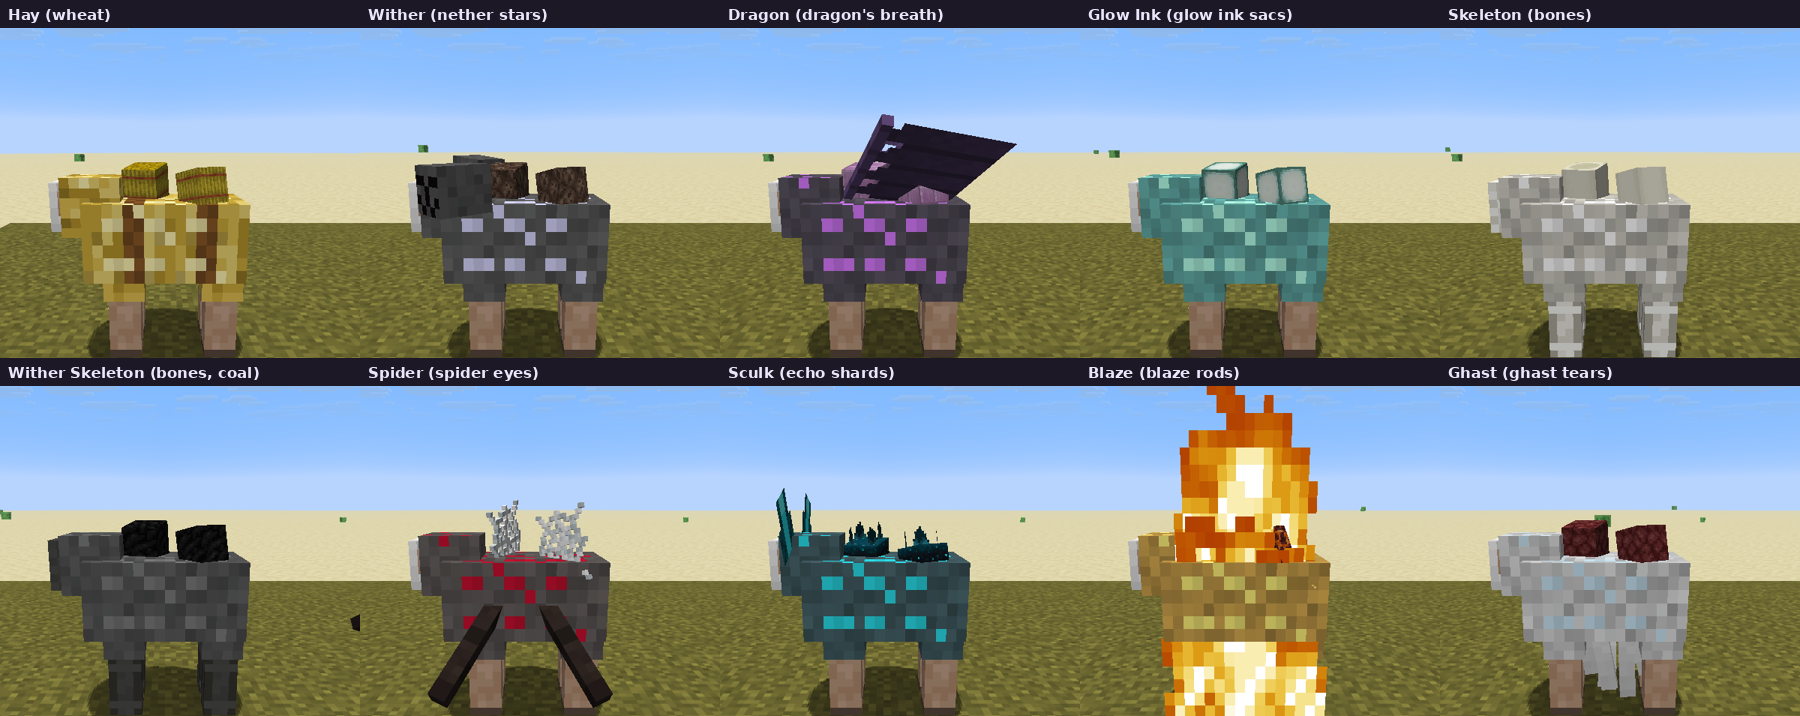
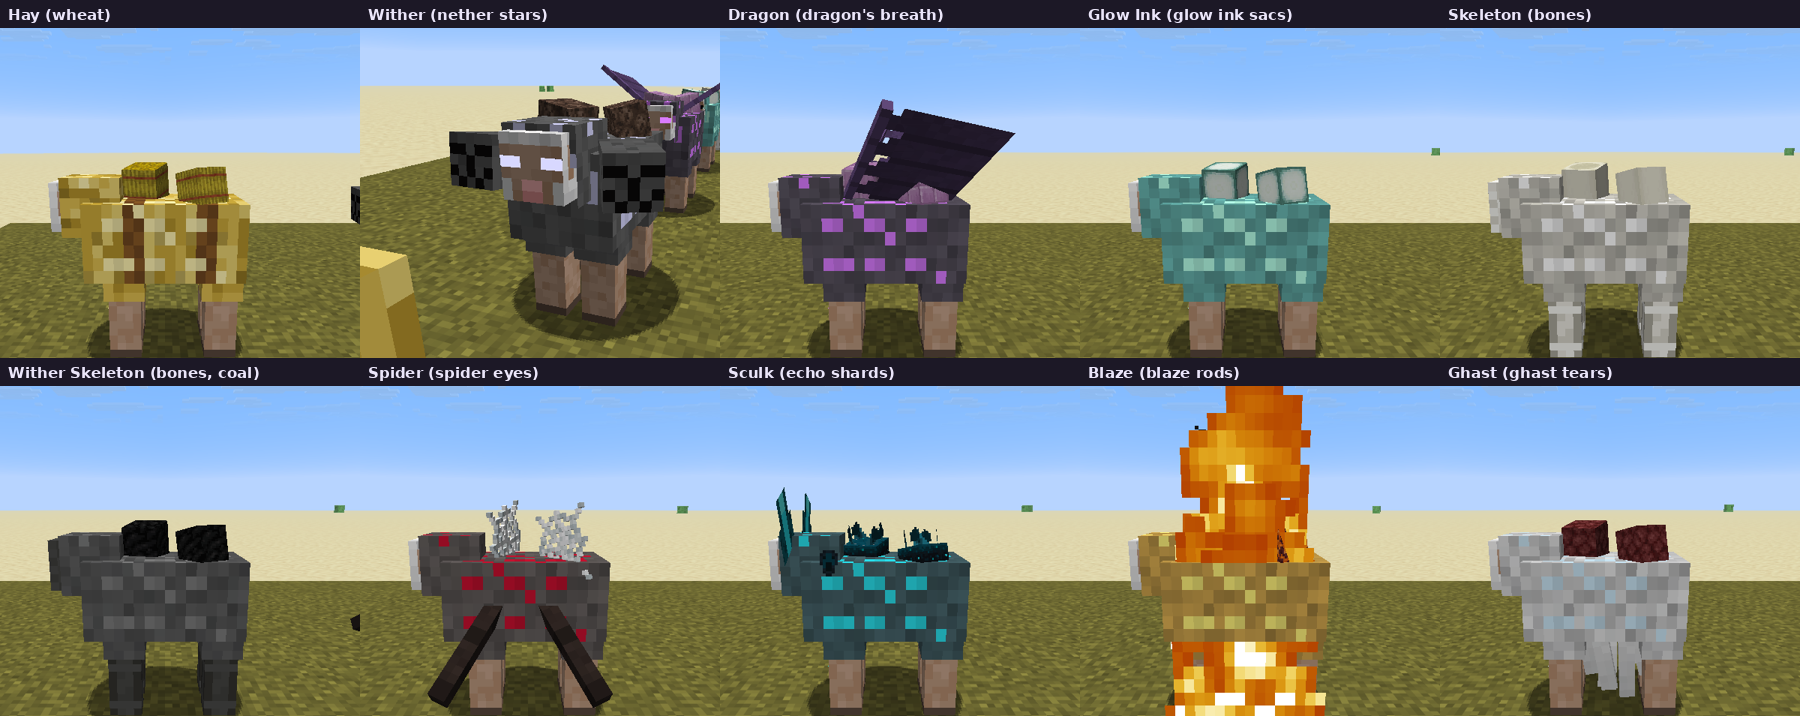
Put the Wither sheep's extra heads beside its own head
The two skull heads now sit either side of the sheep's head instead of
on its shoulders, and are attached to it so they move with it while it
grazes. Adds a front-on screenshot of the Wither sheep.

Claude-Session: https://claude.ai/code/session_012iurxobutw9xMP3SqHHLFE

diff --git a/src/main/java/com/jax3/barelyfunctionalcontraptions/sheep/client/SheepExtrasModel.java b/src/main/java/com/jax3/barelyfunctionalcontraptions/sheep/client/SheepExtrasModel.java
@@ -60,8 +60,8 @@ public class SheepExtrasModel extends EntityModel<SheepRenderState> {
         this.eyes = head.getChild("eyes");
         this.leftTendril = head.getChild("left_tendril");
         this.rightTendril = head.getChild("right_tendril");
-        this.leftHead = root.getChild("left_head");
-        this.rightHead = root.getChild("right_head");
+        this.leftHead = head.getChild("left_head");
+        this.rightHead = head.getChild("right_head");
         this.leftWing = root.getChild("left_wing");
         this.rightWing = root.getChild("right_wing");
         for (int i = 0; i < SPIDER_LEGS.length; i++) {
@@ -94,10 +94,11 @@ public class SheepExtrasModel extends EntityModel<SheepRenderState> {
         head.addOrReplaceChild("right_tendril", CubeListBuilder.create().texOffs(40, 0).mirror().addBox(-6.0F, -7.0F, 0.0F, 6.0F, 7.0F, 0.0F),
                 PartPose.offsetAndRotation(-2.0F, -4.0F, -3.0F, 0.0F, 0.0F, -0.35F));
 
-        // Wither side heads on the shoulders, a little smaller than the real one.
+        // Wither side heads either side of the real head (a little smaller), attached to it so they graze with it.
+        // The real head spans x -3..3 (-3.6..3.6 with its fleece), y -4..2 and z -6..2 in head space.
         CubeListBuilder sideHead = CubeListBuilder.create().texOffs(0, 0).addBox(-2.5F, -2.5F, -6.0F, 5.0F, 5.0F, 6.0F);
-        root.addOrReplaceChild("left_head", sideHead, PartPose.offset(7.5F, 2.0F, -5.0F));
-        root.addOrReplaceChild("right_head", sideHead, PartPose.offset(-7.5F, 2.0F, -5.0F));
+        head.addOrReplaceChild("left_head", sideHead, PartPose.offset(6.2F, -0.5F, 0.5F));
+        head.addOrReplaceChild("right_head", sideHead, PartPose.offset(-6.2F, -0.5F, 0.5F));
 
         // Dragon wings: a bone along the leading edge with a membrane hanging behind it, hinged on the top of the back.
         PartDefinition leftWing = root.addOrReplaceChild("left_wing",
@@ -152,11 +153,11 @@ public class SheepExtrasModel extends EntityModel<SheepRenderState> {
         boolean heads = parts && appearance.has(Feature.EXTRA_HEADS);
         leftHead.visible = heads;
         rightHead.visible = heads;
-        // The side heads face outwards and look about on their own, like the Wither's.
-        leftHead.yRot = -0.55F + Mth.sin(t * 0.05F) * 0.3F;
-        leftHead.xRot = Mth.sin(t * 0.07F + 1.0F) * 0.15F;
-        rightHead.yRot = 0.55F + Mth.sin(t * 0.045F + 2.0F) * 0.3F;
-        rightHead.xRot = Mth.sin(t * 0.06F + 3.0F) * 0.15F;
+        // The side heads turn slightly outwards and look about a little on their own, like the Wither's.
+        leftHead.yRot = -0.25F + Mth.sin(t * 0.05F) * 0.2F;
+        leftHead.xRot = Mth.sin(t * 0.07F + 1.0F) * 0.12F;
+        rightHead.yRot = 0.25F + Mth.sin(t * 0.045F + 2.0F) * 0.2F;
+        rightHead.xRot = Mth.sin(t * 0.06F + 3.0F) * 0.12F;
 
         boolean wings = parts && appearance.has(Feature.WINGS);
         leftWing.visible = wings;

diff --git a/src/main/java/com/jax3/barelyfunctionalcontraptions/sheep/client/DevScreenshotHarness.java b/src/main/java/com/jax3/barelyfunctionalcontraptions/sheep/client/DevScreenshotHarness.java
@@ -1118,11 +1118,11 @@ public final class DevScreenshotHarness {
 
     private static void themedSheepTick(Minecraft mc, MinecraftServer server) {
         // 60: stage; 120: overview; then one close-up per sheep every 25 ticks; then the overview again at night.
-        int closeStart = 130, perSheep = 25, night = closeStart + THEMED.length * perSheep;
+        int closeStart = 130, perSheep = 25, night = closeStart + THEMED.length * perSheep + 35;
         if (tick == 60) server.execute(() -> themedSheepScene(server));
         else if (tick == 70) setHudHidden(mc, true);
         else if (tick == 120) shot(mc, "52_themed_sheep");
-        else if (tick >= closeStart && tick < night) {
+        else if (tick >= closeStart && tick < closeStart + THEMED.length * perSheep) {
             int i = (tick - closeStart) / perSheep, step = (tick - closeStart) % perSheep;
             if (step == 0) {
                 // Slightly in front of the sheep's left side, looking back at it.
@@ -1130,6 +1130,11 @@ public final class DevScreenshotHarness {
             } else if (step == perSheep - 1) {
                 shot(mc, "53_themed_" + THEMED[i]);
             }
+        } else if (tick == night - 30) {
+            // The Wither sheep from the front, to show the three heads side by side.
+            command(server, String.format(java.util.Locale.ROOT, "tp @a %.2f %d %.2f 250 18", themedX(1) - 2.6, origin.getY(), origin.getZ() - 5 + 1.6));
+        } else if (tick == night - 2) {
+            shot(mc, "53_themed_wither_front");
         } else if (tick == night) {
             command(server, "time set midnight");
             command(server, String.format(java.util.Locale.ROOT, "tp @a %.1f %d %.1f 180 18", origin.getX() + 0.5, origin.getY() + 2, origin.getZ() + 5.5));

diff --git a/src/main/java/com/jax3/barelyfunctionalcontraptions/sheep/resource/SheepAppearance.java b/src/main/java/com/jax3/barelyfunctionalcontraptions/sheep/resource/SheepAppearance.java
@@ -47,7 +47,7 @@ public record SheepAppearance(Optional<Identifier> woolTexture, List<Feature> fe
      * none of them.
      */
     public enum Feature implements StringRepresentable {
-        /** Two smaller heads on the shoulders, like the Wither. */
+        /** Two smaller heads either side of its own head, like the Wither. */
         EXTRA_HEADS,
         /** A pair of flapping dragon wings on its back. */
         WINGS,

diff --git a/TESTING.md b/TESTING.md
@@ -18,7 +18,7 @@ Environment for the results below: Minecraft 26.3, NeoForge 26.3.0.101, JEI 31.1
 | GameTest `glowing_sheep_lights_the_block_it_stands_in` | ✅ A Glow Ink sheep puts a light-level-12 light where it stands; once it's sheared the light goes out on its next check |
 | GameTest `screaming_sheep_bleats_like_a_screaming_goat` | ✅ A Ghast sheep's bleat becomes a screaming goat's; a plain sheep still bleats |
 | Generator GameTests | ✅ Updated: Wheat and Bone Meal are no longer generated (the Hay and Skeleton sheep cover them), and a generated copy of either is flagged as a duplicate |
-| Real client (`-PharnessScene=themed_sheep`) | ✅ Each sheep photographed side-on (`52_themed_sheep.png`): Wither side heads with skull faces, Dragon wings, spider legs, ghast tentacles, skull faces and bony legs, sculk tendrils with glowing strands, on-fire flames, hay fleece. At night (`53_themed_sheep_night.png`) the Glow Ink sheep is fully bright and lights the grass, and glowing eyes and sculk strands stay lit. No errors from the mod in the log. |
+| Real client (`-PharnessScene=themed_sheep`) | ✅ Each sheep photographed side-on (`52_themed_sheep.png`): Wither side heads with skull faces either side of its own head (front view `53_themed_wither_front.png`), Dragon wings, spider legs, ghast tentacles, skull faces and bony legs, sculk tendrils with glowing strands, on-fire flames, hay fleece. At night (`53_themed_sheep_night.png`) the Glow Ink sheep is fully bright and lights the grass, and glowing eyes and sculk strands stay lit. No errors from the mod in the log. |
 | Not yet checked in the client | The screaming sound is only covered by the GameTest, not listened to in game |
 
 ### Integration GameTests (`com.jax3.barelyfunctionalcontraptions.gametest.IntegrationGameTests`)

diff --git a/README.md b/README.md
@@ -477,7 +477,7 @@ Ten more built-in resources turn the sheep into a little version of the mob the 
 | Fed item | Sheep | What's different | Separator output (per wool) | FE / time |
 |---|---|---|---|---|
 | Hay Bale | Hay | A hay-bale fleece with binding bands | 2–4 Wheat | 4,000 / 2 s |
-| Nether Star | Wither | Two skull heads on its shoulders that look around on their own, and glowing eyes | 2–4 Nether Star + 1 Soul Sand | 400,000 / 20 s |
+| Nether Star | Wither | Two skull heads either side of its own head that look around on their own, and glowing eyes | 2–4 Nether Star + 1 Soul Sand | 400,000 / 20 s |
 | Dragon's Breath | Dragon | Flapping dragon wings, glowing purple eyes | 2–4 Dragon's Breath (+5% Ender Pearl) | 80,000 / 10 s |
 | Glow Ink Sac | Glow Ink | Its fleece glows in the dark and **lights up the block it stands in** (light level 12) | 2–4 Glow Ink Sac | 8,000 / 3 s |
 | Bone Block | Skeleton | A skull face and bony legs | 2–4 Bone (+10% Arrow) | 6,000 / 3 s |
@@ -723,7 +723,7 @@ Definitions live in `data/<namespace>/barelyfunctionalcontraptions/sheep_resourc
 
 | Feature | What it does |
 |---|---|
-| `extra_heads` | Two skull heads on the shoulders, like the Wither |
+| `extra_heads` | Two skull heads either side of the sheep's head, like the Wither |
 | `wings` | A pair of flapping dragon wings |
 | `extra_legs` | Four long spider legs along the sides |
 | `tentacles` | Ghast tentacles hanging under the belly |
